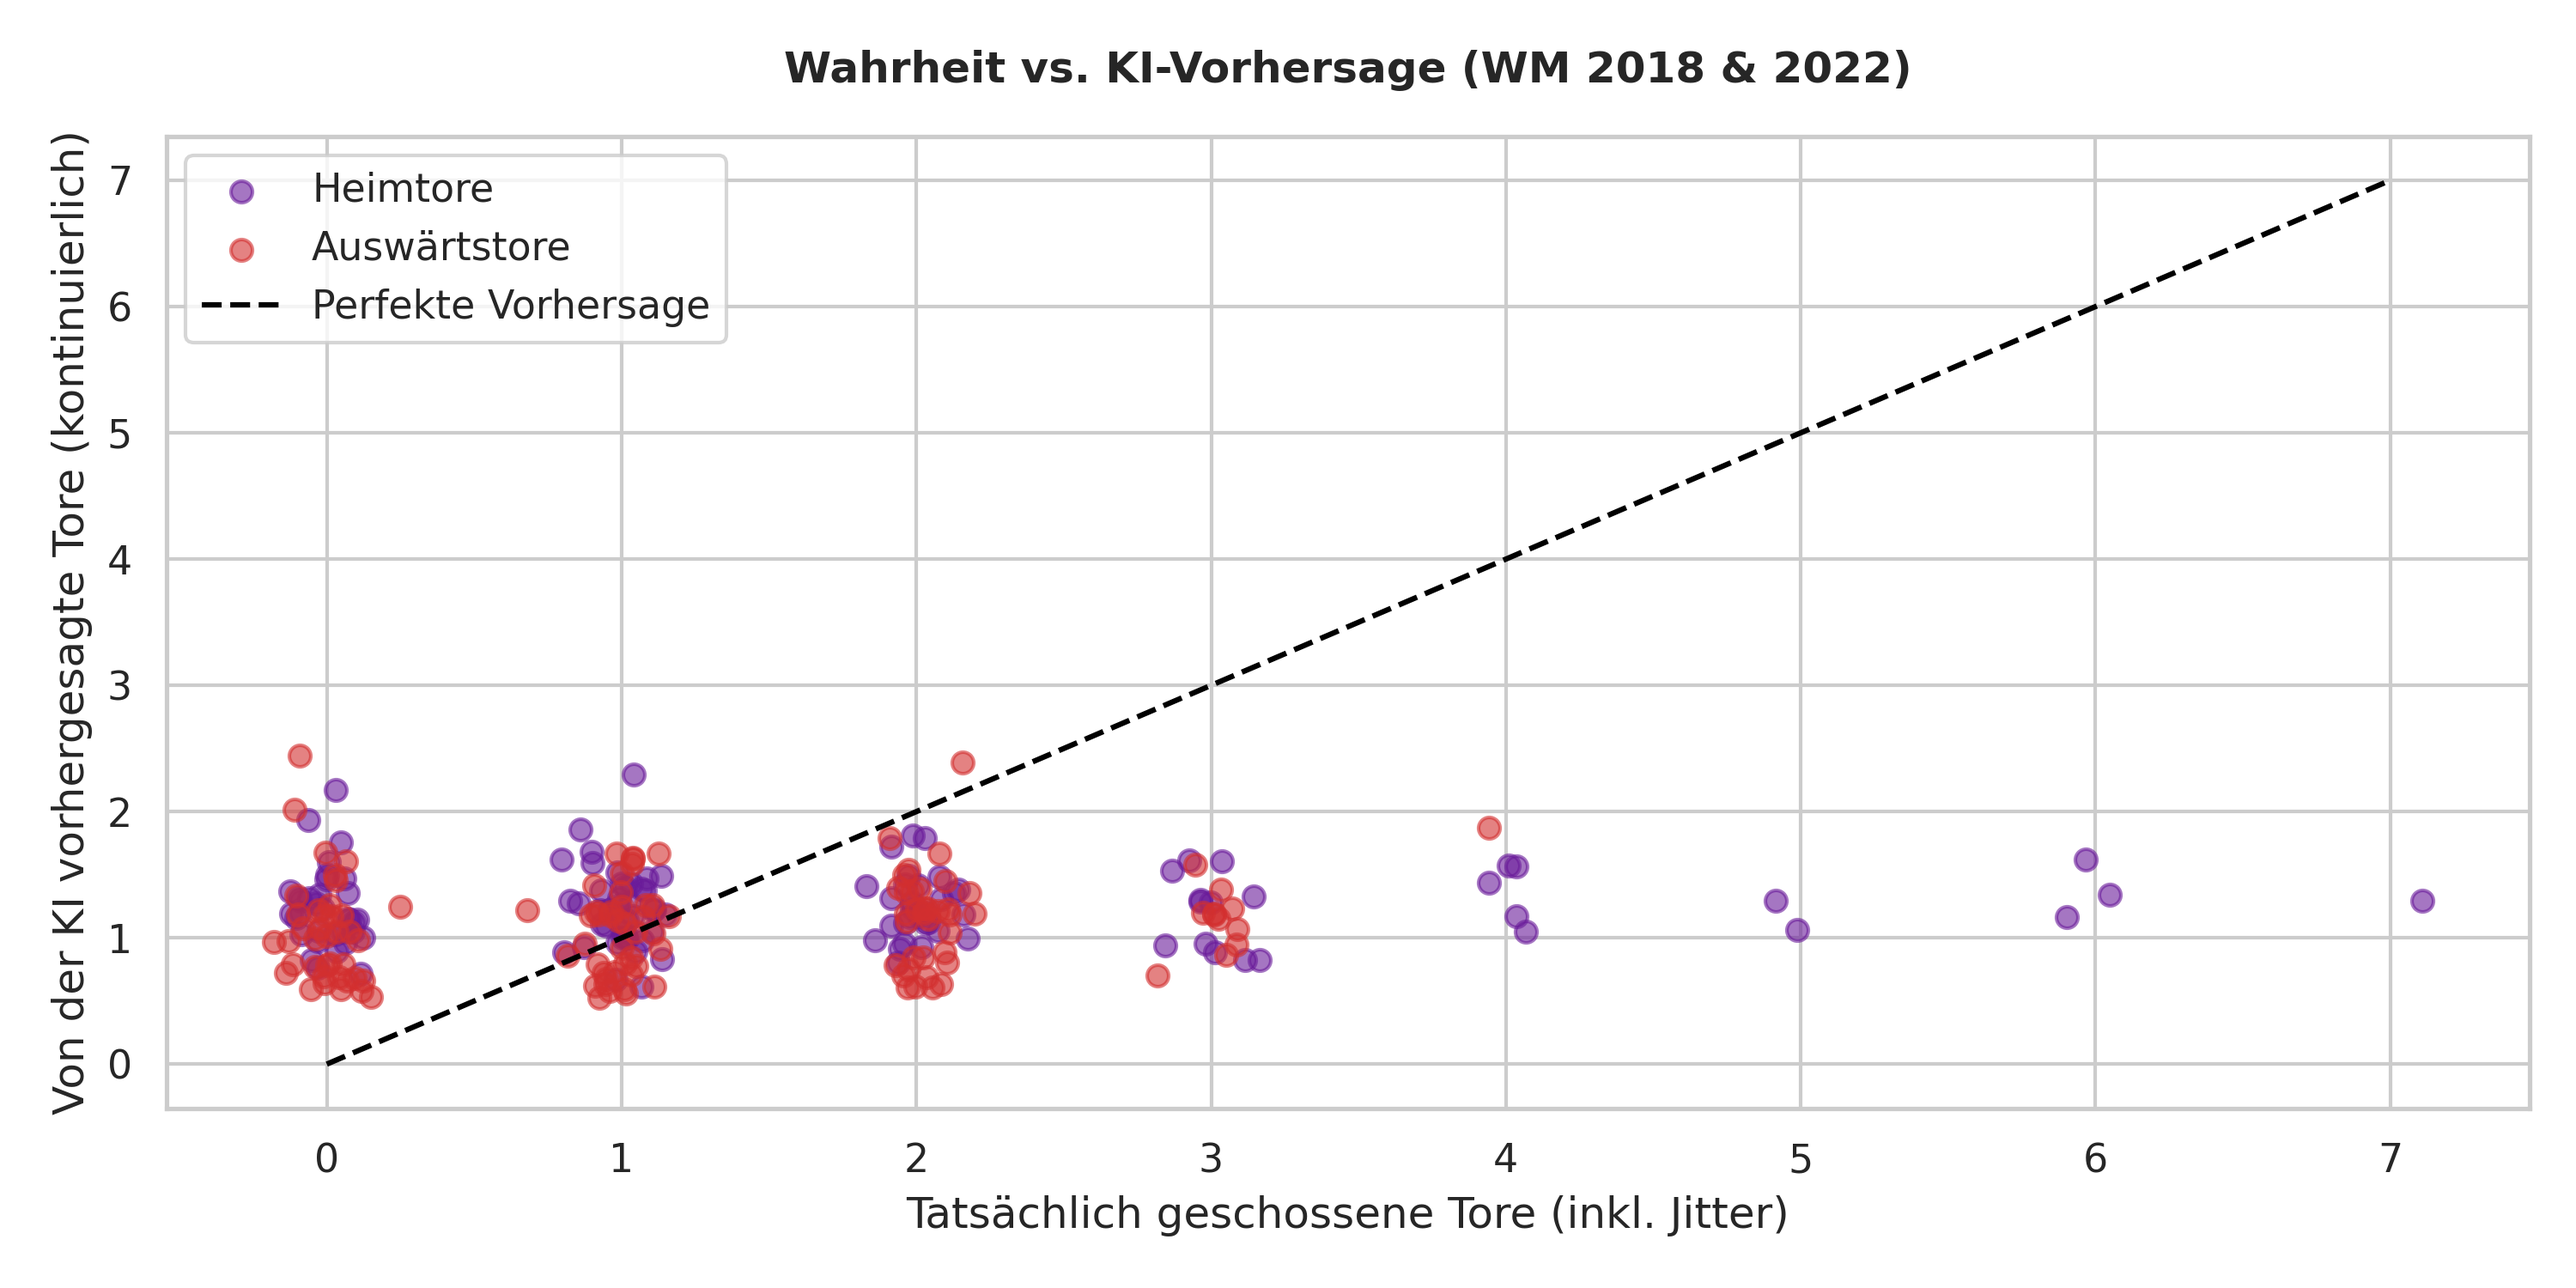
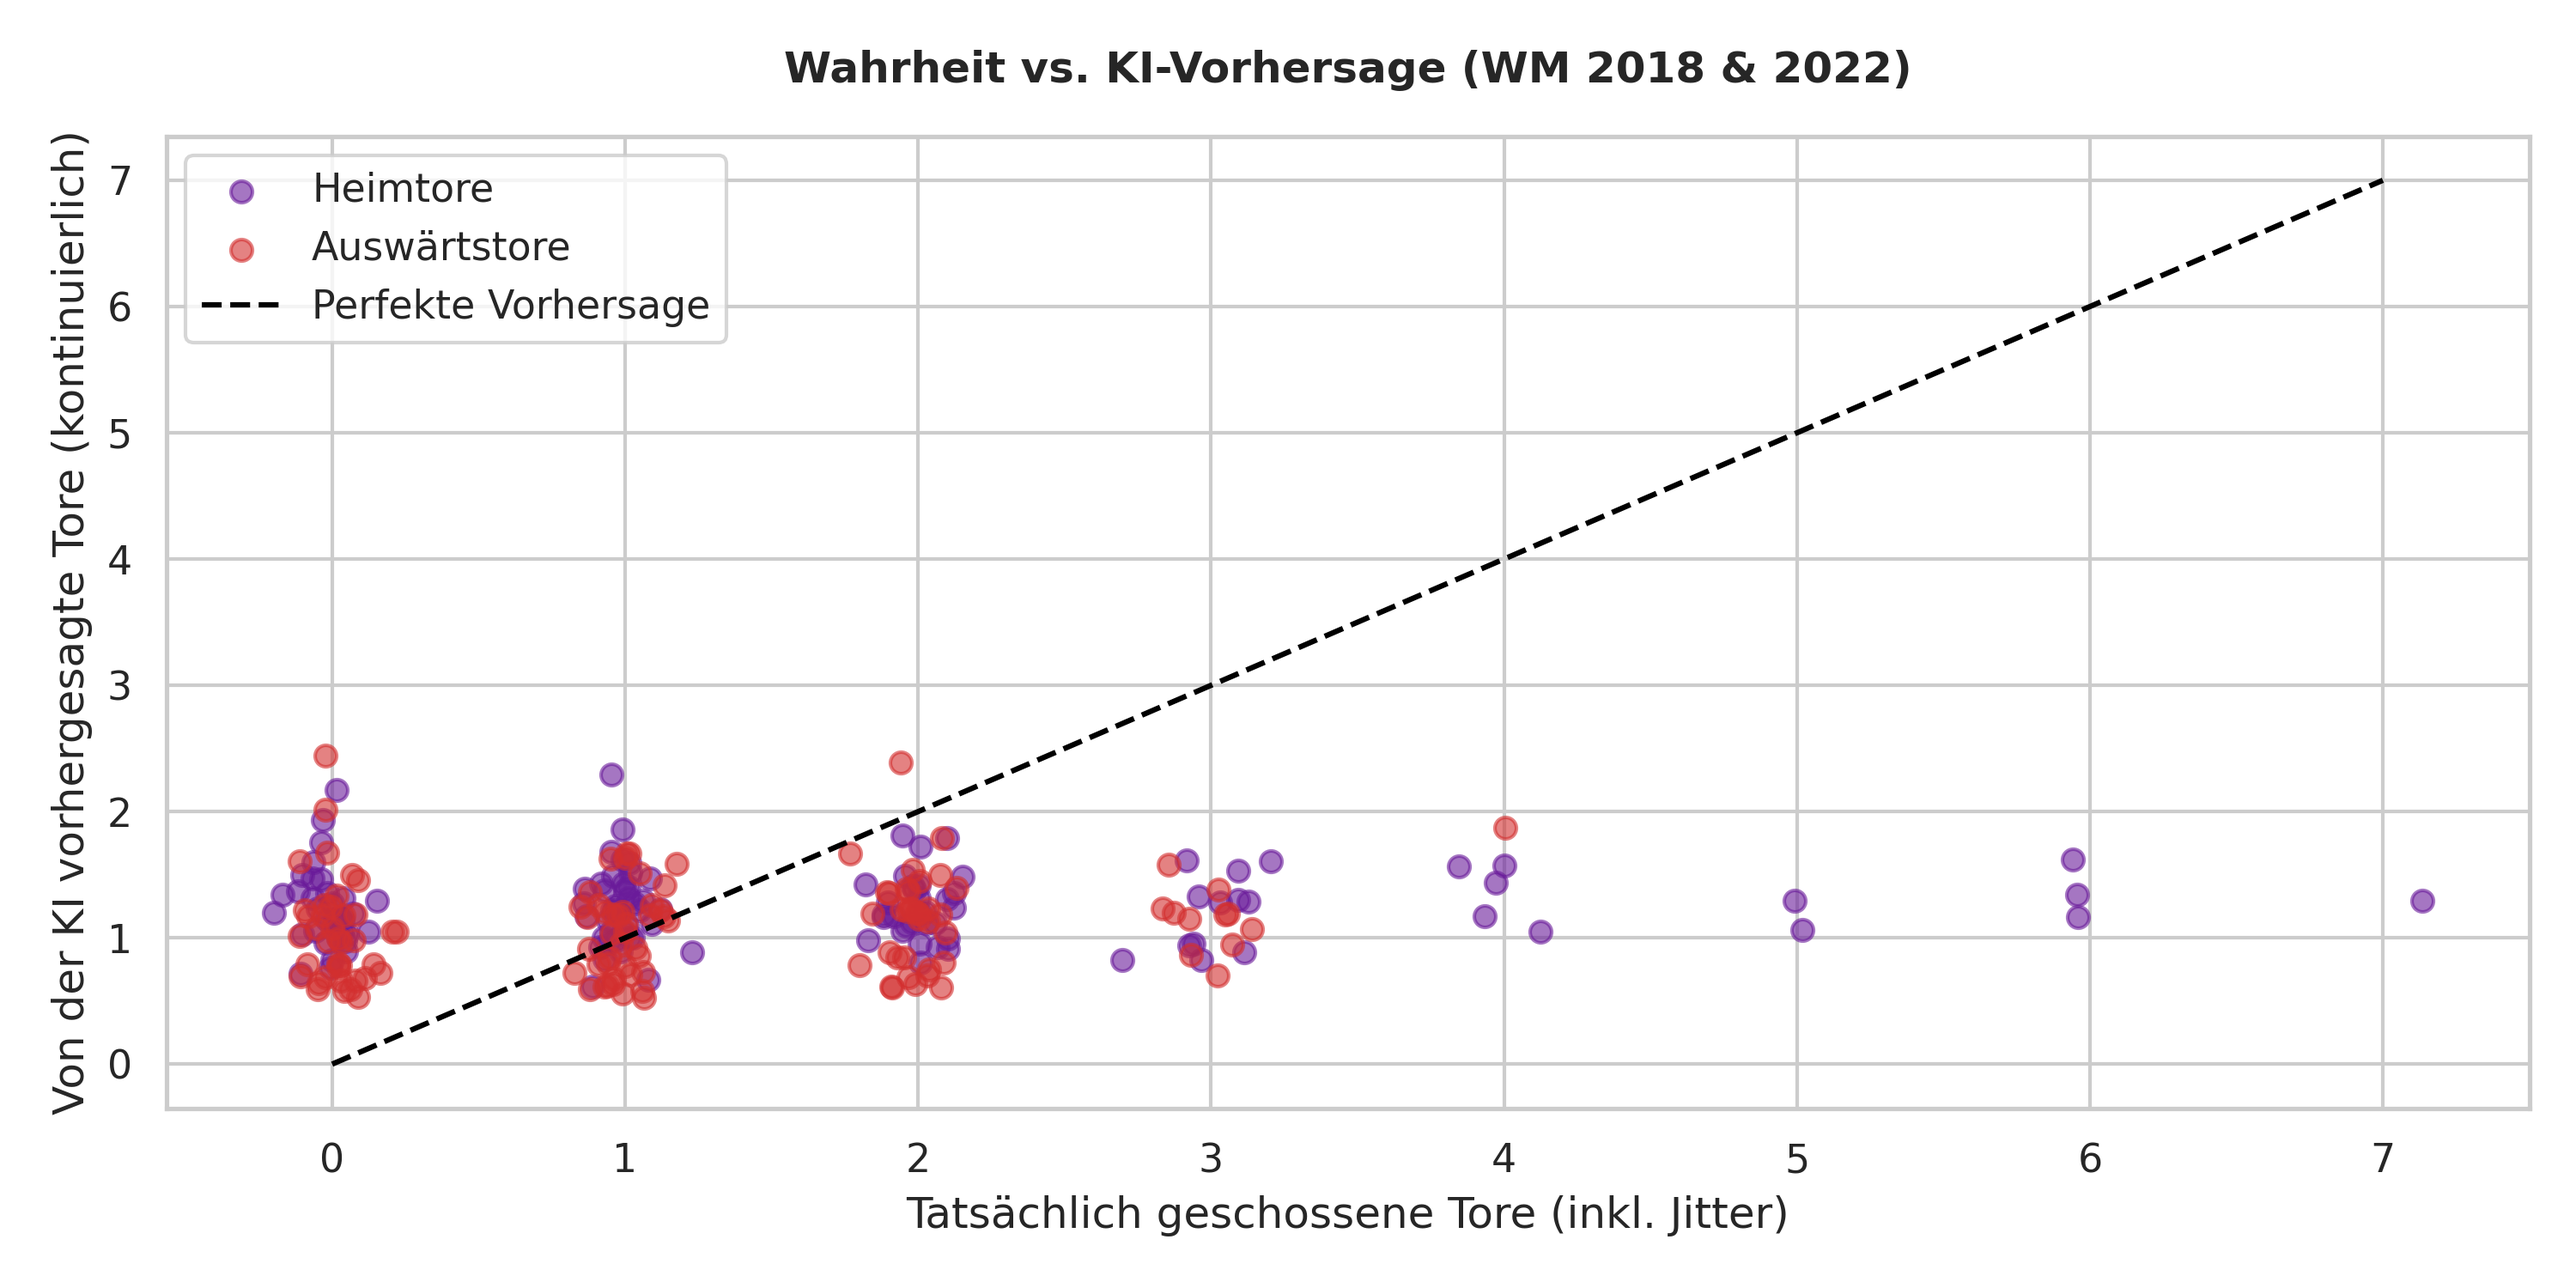
feat: decay_rate added

diff --git a/train.py b/train.py
@@ -5,6 +5,8 @@ Dieses Skript steuert das Modell-Training der CornerPredictionEngine.
 Es lädt die aufbereiteten WM-Daten, führt einen strikten, chronologischen
 Time-Based Split durch (Training auf historischen Daten, Test auf modernen Turnieren)
 und trainiert zwei stark regulierte XGBoost-Regressoren für Heim- und Auswärtstore.
+
+NEU: Time-Decay-Gewichtung – neuere WMs beeinflussen das Modell stärker als alte.
 """
 
 import sys
@@ -17,22 +19,24 @@ from sklearn.metrics import mean_absolute_error
 
 
 def load_config() -> dict:
-    """Lädt die zentrale Konfigurationsdatei (config.yaml).
-
-    Returns:
-        dict: Die geladenen Konfigurationsparameter.
-    """
+    """Lädt die zentrale Konfigurationsdatei (config.yaml)."""
     with open("config.yaml", "r", encoding="utf-8") as f:
         return yaml.safe_load(f)
 
 
 def main():
     """Hauptfunktion für das Laden der Features, den chronologischen Split,
-
     das Training der XGBoost-Modelle und die anschließende Evaluierung.
     """
     config = load_config()
     data_path = config["tournaments"]["world_cup"]["processed_path"]
+
+    # === NEU: Decay-Rate aus Config lesen ===
+    # decay_rate steuert, wie stark alte WMs "verblassen":
+    # 0.0  = alle Spiele gleich gewichtet (Verhalten wie vorher)
+    # 0.15 = moderater Decay (Empfehlung)
+    # 0.5  = aggressiv, fast nur die letzte WM zählt
+    decay_rate = config["model"]["decay_rate"]
 
     print(f"⏳ Lade aufbereitete moderne WM-Daten aus '{data_path}'...")
     try:
@@ -40,7 +44,7 @@ def main():
     except FileNotFoundError:
         print(f"❌ Fehler: Die Datei '{data_path}' wurde nicht gefunden. Bitte prepare_data.py zuerst ausführen.")
         sys.exit(1)
-        
+
     df["date"] = pd.to_datetime(df["date"])
 
     # Exakte Feature-Liste, auf der die Bäume trainiert werden
@@ -78,20 +82,38 @@ def main():
     y_home_test = test_df["home_score"]
     y_away_test = test_df["away_score"]
 
+    # === NEU: Time-Decay-Gewichte berechnen ===
+    # Für jedes Trainings-Spiel: wie viele Jahre liegt es zurück?
+    # WICHTIG: Nur auf train_df! Testdaten dürfen nicht gewichtet werden,
+    # sonst verfälscht das die Evaluierung.
+    current_year = 2026
+    years_ago = current_year - train_df["date"].dt.year
+
+    # Exponentieller Decay: w = exp(-λ * years_ago)
+    # Beispiel mit λ=0.15:
+    #   Spiel von 2002 (24 Jahre alt): w ≈ 0.027  (fast irrelevant)
+    #   Spiel von 2014 (12 Jahre alt): w ≈ 0.165
+    #   Spiel von 2022 (4 Jahre alt):  w ≈ 0.549
+    weights = np.exp(-decay_rate * years_ago)
+
+    print(f"⚖ Time-Decay aktiv (λ={decay_rate}). "
+          f"Gewichtsbereich: {weights.min():.3f} bis {weights.max():.3f}")
+
     # --- MODELL-TRAINING (HEIMTORE) ---
     # Stark reguliert (max_depth=3, reg_alpha/lambda), um Overfitting im Keim zu ersticken
     print("🤖 Trainiere stark reguliertes Modell für HEIM-Tore...")
     model_home = xgb.XGBRegressor(
         n_estimators=120,
         learning_rate=0.02,
-        max_depth=3,  # Flache Bäume verhindern das Auswendiglernen von Details
-        subsample=0.7,  # Nutzt nur 70% der Zeilen pro Baum zur Varianz-Reduktion
-        colsample_bytree=0.7,  # Nutzt nur 70% der Spalten pro Baum
-        reg_alpha=1.5,  # L1-Regularisierung (Sparsity)
-        reg_lambda=1.5,  # L2-Regularisierung (Ridge-Strafe auf extreme Gewichte)
-        random_state=42,  # Fixierter Seed für exakte Reproduzierbarkeit
+        max_depth=3,
+        subsample=0.7,
+        colsample_bytree=0.7,
+        reg_alpha=1.5,
+        reg_lambda=1.5,
+        random_state=42,
     )
-    model_home.fit(X_train, y_home_train)
+    # === GEÄNDERT: sample_weight übergeben ===
+    model_home.fit(X_train, y_home_train, sample_weight=weights)
 
     # --- MODELL-TRAINING (AUSWÄRTSTORE) ---
     print("🤖 Trainiere stark reguliertes Modell für AUSWÄRTS-Tore...")
@@ -105,13 +127,13 @@ def main():
         reg_lambda=1.5,
         random_state=42,
     )
-    model_away.fit(X_train, y_away_train)
+    # === GEÄNDERT: sample_weight übergeben ===
+    model_away.fit(X_train, y_away_train, sample_weight=weights)
 
     # --- EVALUIERUNG ---
     pred_home = model_home.predict(X_test)
     pred_away = model_away.predict(X_test)
 
-    # Berechnung des mittleren absoluten Fehlers (MAE)
     mae_home = mean_absolute_error(y_home_test, pred_home)
     mae_away = mean_absolute_error(y_away_test, pred_away)
 
@@ -119,13 +141,12 @@ def main():
     print(f"   Fehler Heimtore: {mae_home:.2f} Tore im Schnitt daneben.")
     print(f"   Fehler Auswärtstore: {mae_away:.2f} Tore im Schnitt daneben.")
 
-    # Statistischer Baseline-Vergleich gegen den globalen Torschnitt (Dummy)
     baseline_home_mae = mean_absolute_error(
         y_home_test, np.full_like(y_home_test, 1.3, dtype=float)
     )
     print(f"   💡 Zum Vergleich der Turnier-Dummy-Tipp: {baseline_home_mae:.2f}")
 
-    # Serialization (Modelle einfrieren für spätere Live-Inferenz)
+    # Serialisierung (Modelle einfrieren für spätere Live-Inferenz)
     joblib.dump(model_home, "models/wm_home_goals_model.pkl")
     joblib.dump(model_away, "models/wm_away_goals_model.pkl")
     print("\n💾 Beide High-End-Modelle erfolgreich im Ordner 'models/' gespeichert!")
